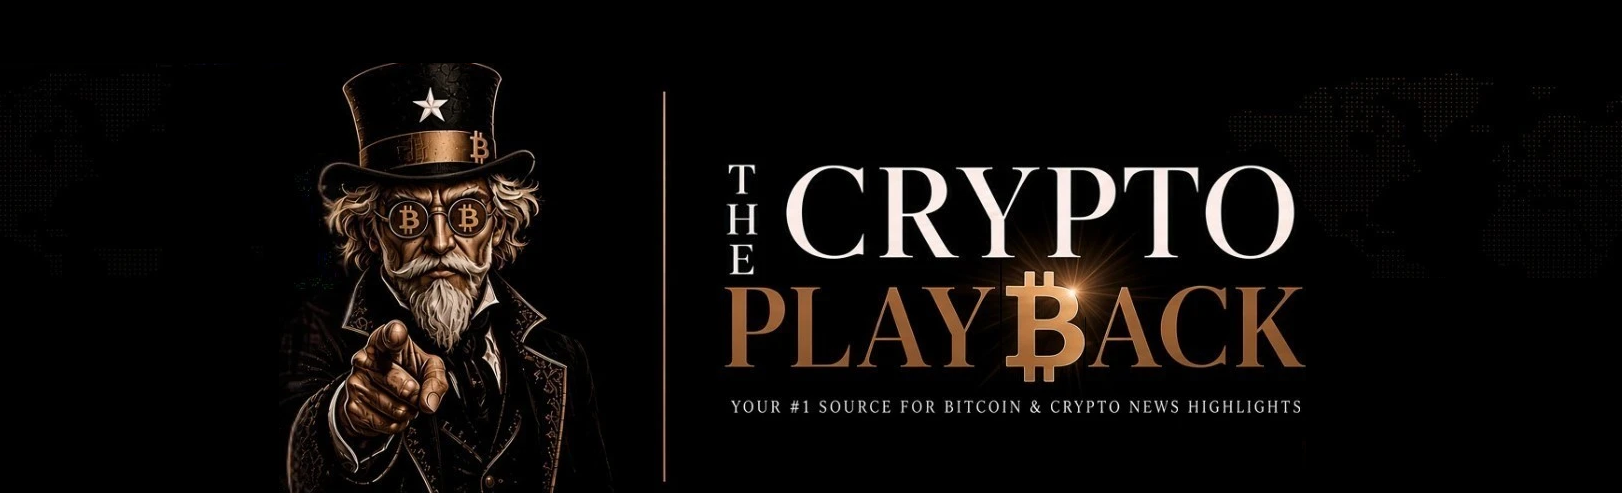
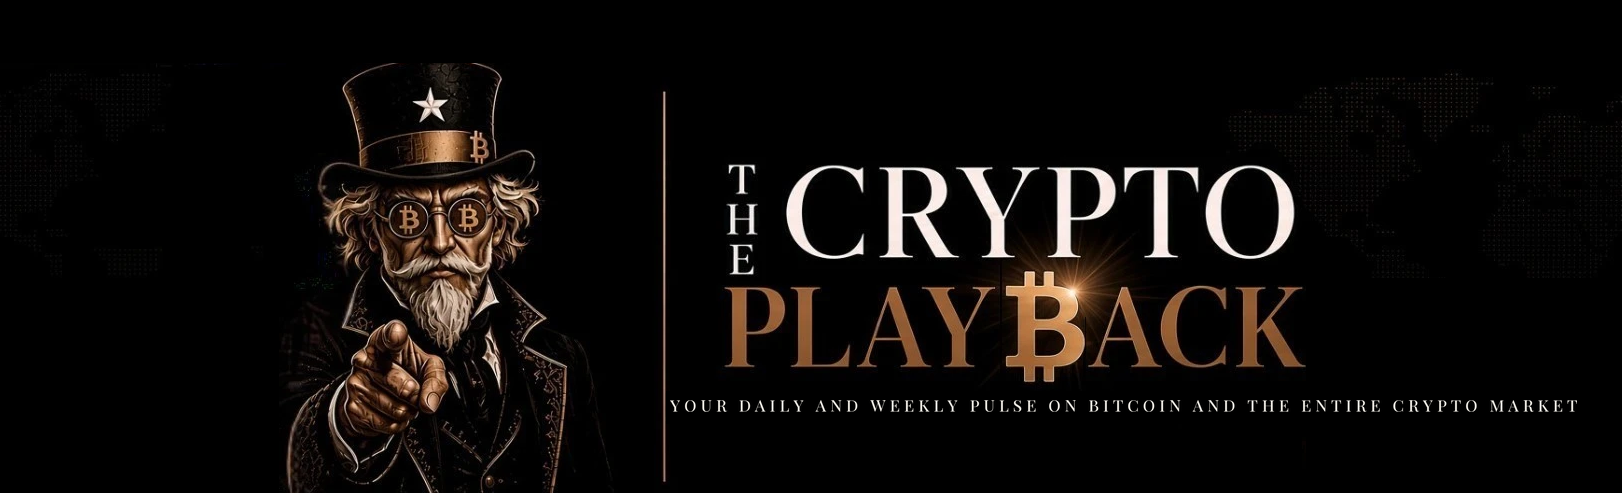
Update header masthead tagline to Your daily and weekly pulse...
Edited assets/header-web.png directly (painted out the old baked-in tagline and re-rendered new text in Playfair Display Medium, matching the header's existing serif small-caps style) rather than touching the locked email masthead (header-a.png), which stays untouched. Also updates the hero image alt text to match.

Changed region(s): [[0.4316, 0.7911, 0.9556, 0.8519]]

diff --git a/posts/2026-09-21-daily.html b/posts/2026-09-21-daily.html
@@ -27,7 +27,7 @@
 </header>
 
 <article class="post">
-    <img class="post-masthead" src="../assets/header-web.png?v=9094e0c468" alt="The Crypto Playback">
+    <img class="post-masthead" src="../assets/header-web.png?v=482a6d1d21" alt="The Crypto Playback">
     <div class="ticker"><div class="wrap"><div class="coin"><span class="sym">BTC</span><span>$81,305.00</span><span>(+1.1%)</span></div><div class="coin"><span class="sym">ETH</span><span>$2,661.68</span><span>(+3.1%)</span></div><div class="coin"><span class="sym">BNB</span><span>$776.66</span><span>(+3.4%)</span></div><div class="coin"><span class="sym">XRP</span><span>$1.42</span><span>(+2.9%)</span></div><div class="coin"><span class="sym">SOL</span><span>$111.36</span><span>(+2.9%)</span></div>
     <span class="updated">Updated Sep 21, 2026 03:14 UTC</span></div></div>
     <div class="sentiment-bar">

diff --git a/posts/2026-09-20-daily.html b/posts/2026-09-20-daily.html
@@ -27,7 +27,7 @@
 </header>
 
 <article class="post">
-    <img class="post-masthead" src="../assets/header-web.png?v=9094e0c468" alt="The Crypto Playback">
+    <img class="post-masthead" src="../assets/header-web.png?v=482a6d1d21" alt="The Crypto Playback">
     <div class="ticker"><div class="wrap"><div class="coin"><span class="sym">BTC</span><span>$80,864.00</span><span>(-0.3%)</span></div><div class="coin"><span class="sym">ETH</span><span>$2,626.40</span><span>(-0.0%)</span></div><div class="coin"><span class="sym">BNB</span><span>$765.31</span><span>(+0.8%)</span></div><div class="coin"><span class="sym">XRP</span><span>$1.40</span><span>(-0.7%)</span></div><div class="coin"><span class="sym">SOL</span><span>$109.85</span><span>(-0.7%)</span></div>
     <span class="updated">Updated Sep 20, 2026 21:59 UTC</span></div></div>
     

diff --git a/posts/2026-09-20-weekly.html b/posts/2026-09-20-weekly.html
@@ -27,7 +27,7 @@
 </header>
 
 <article class="post">
-    <img class="post-masthead" src="../assets/header-web.png?v=9094e0c468" alt="The Crypto Playback">
+    <img class="post-masthead" src="../assets/header-web.png?v=482a6d1d21" alt="The Crypto Playback">
     <div class="ticker"><div class="wrap"><div class="coin"><span class="sym">BTC</span><span>$80,340.00</span><span>(-0.9%)</span></div><div class="coin"><span class="sym">ETH</span><span>$2,585.22</span><span>(-1.3%)</span></div><div class="coin"><span class="sym">BNB</span><span>$750.39</span><span>(-1.1%)</span></div><div class="coin"><span class="sym">XRP</span><span>$1.38</span><span>(-2.3%)</span></div><div class="coin"><span class="sym">SOL</span><span>$108.34</span><span>(-4.3%)</span></div>
     <span class="updated">Updated Sep 20, 2026 03:38 UTC</span></div></div>
     

diff --git a/index.html b/index.html
@@ -28,7 +28,7 @@
 
 <section class="hero">
     <div class="wrap">
-      <img class="hero-masthead" src="assets/header-web.png?v=9094e0c468" alt="The Crypto Playback — your #1 source for Bitcoin and crypto news highlights">
+      <img class="hero-masthead" src="assets/header-web.png?v=482a6d1d21" alt="The Crypto Playback — your daily and weekly pulse on Bitcoin and the entire crypto market">
     </div>
   </section><section class="pulse-ticker-panel">
     <div class="pulse-wrap">

diff --git a/posts/2026-09-21-weekly.html b/posts/2026-09-21-weekly.html
@@ -27,7 +27,7 @@
 </header>
 
 <article class="post">
-    <img class="post-masthead" src="../assets/header-web.png?v=9094e0c468" alt="The Crypto Playback">
+    <img class="post-masthead" src="../assets/header-web.png?v=482a6d1d21" alt="The Crypto Playback">
     <div class="ticker-bar">
     <div class="ticker-top5-col">
       <div class="ticker-tab-wrap">

diff --git a/scripts/build_site.py b/scripts/build_site.py
@@ -448,7 +448,7 @@ def render_index(entries):
     # script/tagline markup needed here the way the old hero had.
     hero = f"""<section class="hero">
     <div class="wrap">
-      <img class="hero-masthead" src="assets/header-web.png?v={HEADER_WEB_VERSION}" alt="The Crypto Playback — your #1 source for Bitcoin and crypto news highlights">
+      <img class="hero-masthead" src="assets/header-web.png?v={HEADER_WEB_VERSION}" alt="The Crypto Playback — your daily and weekly pulse on Bitcoin and the entire crypto market">
     </div>
   </section>"""
 
